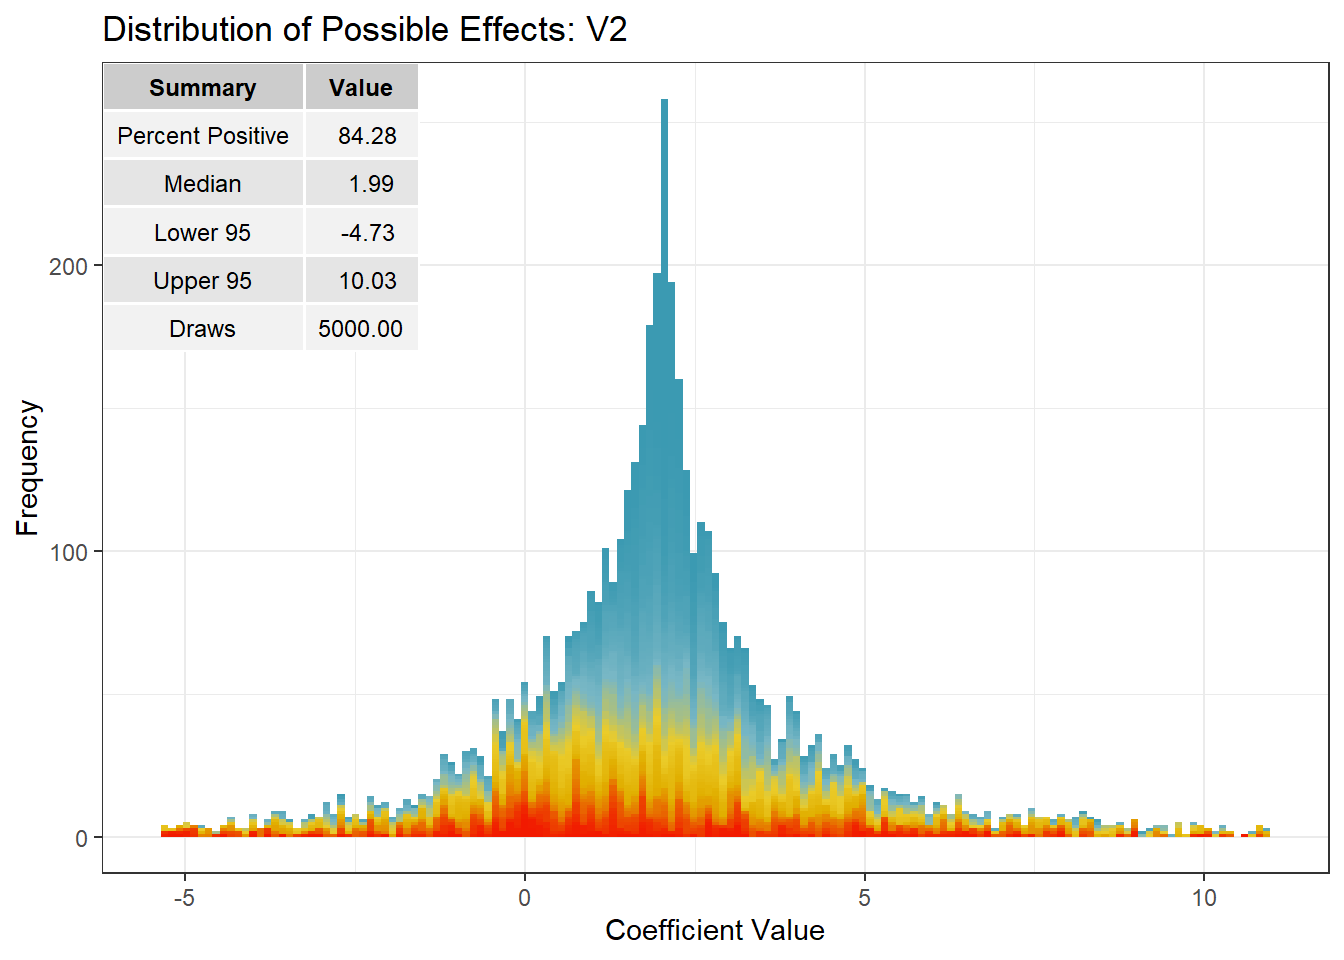
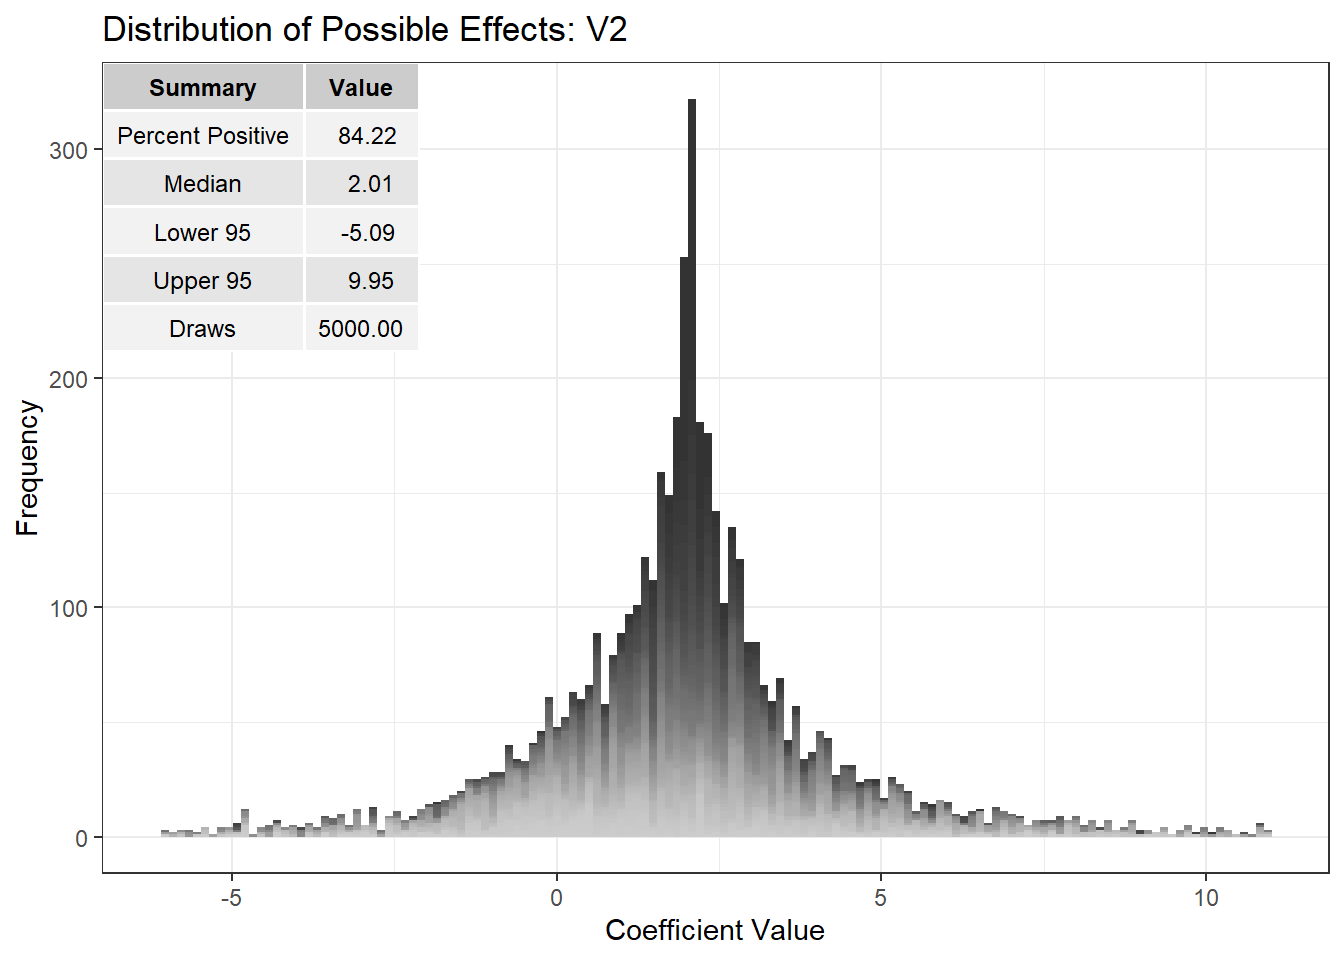
update README

diff --git a/README.md b/README.md
@@ -168,24 +168,6 @@ version of the package with the following lines of code:
 Sys.setenv("R_REMOTES_NO_ERRORS_FROM_WARNINGS"=TRUE)
 devtools::install_github("christophercschwarz/DOPE",
                          dependencies=TRUE)
-## glue (1.3.2 -> 1.4.0) [CRAN]
-## 
-##   There is a binary version available but the source version is later:
-##      binary source needs_compilation
-## glue  1.3.2  1.4.0              TRUE
-## 
-##          checking for file 'C:\Users\Schwarz\AppData\Local\Temp\RtmpGUmmoF\remotes2c546ccc11d9\christophercschwarz-DOPE-2b6c262/DESCRIPTION' ...  v  checking for file 'C:\Users\Schwarz\AppData\Local\Temp\RtmpGUmmoF\remotes2c546ccc11d9\christophercschwarz-DOPE-2b6c262/DESCRIPTION'
-##       -  preparing 'DOPE':
-##    checking DESCRIPTION meta-information ...     checking DESCRIPTION meta-information ...   v  checking DESCRIPTION meta-information
-## -  cleaning src
-##       -  installing the package to process help pages
-##       -  saving partial Rd database (21.7s)
-##       -  cleaning src
-##       -  checking for LF line-endings in source and make files and shell scripts
-##       -  checking for empty or unneeded directories
-##       -  building 'DOPE_1.1.0.tar.gz'
-##      
-## 
 library(DOPE)
 ```
 
@@ -248,6 +230,19 @@ set.seed(6161918)
 dope <- DOPE(mod, nsims = 5000, n.cores = parallel::detectCores())
 ```
 
+``` r
+tail(dplyr::tbl_df(dope))
+## # A tibble: 6 x 8
+##   Intercept     V1    V2    V3    V4    V5 ControlFunction R_Squared
+##       <dbl>  <dbl> <dbl> <dbl> <dbl> <dbl>           <dbl>     <dbl>
+## 1    0.0135  4.04   2.86  3.34  2.92  3.19          -1.02      0.994
+## 2    0.0135 -0.125  1.39  2.88  4.28  5.33           0.420     0.990
+## 3    0.0135  1.27   2.32  2.93  4.78  3.84           1.11      0.992
+## 4    0.0135  1.50   1.76  2.79  4.62  3.46           1.18      0.992
+## 5    0.0135  3.23   3.39  4.04  3.15  4.45           1.35      0.998
+## 6    0.0135  1.11   2.04  3.02  3.98  4.90          NA         0.989
+```
+
 The result is a dataframe of `nsims` + 1 observations with columns for
 each of the estimated coefficients, the control function coefficient,
 and model R-squared. The last observation simply re-states the results
@@ -260,7 +255,7 @@ easily modified by adding additional layers.
 plot_DOPE(dope,"V2") + ggtitle("Distribution of Possible Effects: V2")
 ```
 
-<img src="README_figs/README-unnamed-chunk-6-1.png" width="672" />
+<img src="README_figs/README-unnamed-chunk-8-1.png" width="672" style="display: block; margin: auto;" />
 
 In this example, based upon 5000 draws around 84% of the estimated
 effects are greater than zero with a 95% credible interval given by the
@@ -277,7 +272,7 @@ result.
 plot_DOPE(dope,"V2",shade=T,include_naive = F) + ggtitle("Distribution of Possible Effects: V2")
 ```
 
-<img src="README_figs/README-unnamed-chunk-7-1.png" width="672" />
+<img src="README_figs/README-unnamed-chunk-9-1.png" width="672" style="display: block; margin: auto;" />
 
 Lighter shades indicate lower R-squared than darker shades, given a
 sense for how fits are distributed across the effect values. This is
@@ -290,7 +285,7 @@ greyscale we can add another layer like so:
 plot_DOPE(dope,"V2",shade=T,include_naive = F) + ggtitle("Distribution of Possible Effects: V2") + scale_fill_discrete()
 ```
 
-<img src="README_figs/README-unnamed-chunk-8-1.png" width="672" />
+<img src="README_figs/README-unnamed-chunk-10-1.png" width="672" style="display: block; margin: auto;" />
 
 If there is a particular color palette you are looking for you can use
 it using something like the following.
@@ -308,7 +303,7 @@ n_fills <- as.numeric(regmatches(st,gregexpr("[[:digit:]]+",st))[[1]][1])
 p + scale_fill_manual(values=colorRampPalette(wes_palette("Zissou1"))(n_fills))
 ```
 
-<img src="README_figs/README-unnamed-chunk-9-1.png" width="672" />
+<img src="README_figs/README-unnamed-chunk-11-1.png" width="672" style="display: block; margin: auto;" />
 
 We can get a sense for how the distribution of possible effects changes
 with restrictions on the R-squared with a `sensitivity_plot`.
@@ -317,7 +312,7 @@ with restrictions on the R-squared with a `sensitivity_plot`.
 sensitivity_plot(dope,"V2")
 ```
 
-<img src="README_figs/README-unnamed-chunk-11-1.png" width="672" />
+<img src="README_figs/README-unnamed-chunk-13-1.png" width="672" style="display: block; margin: auto;" />
 
 The solid dots indicate how the certainty in the effect changes as you
 say “the world is not that deterministic,” reducing the maximum
@@ -443,7 +438,7 @@ responses often have the form
 
 </center>
 
-where
+6 where
 ![\\mathbf{z}](http://chart.apis.google.com/chart?cht=tx&chl=%5Cmathbf%7Bz%7D
 "\\mathbf{z}") is the working variable. These may be put into the
 desired format by first applying the data augmentation trick and then
